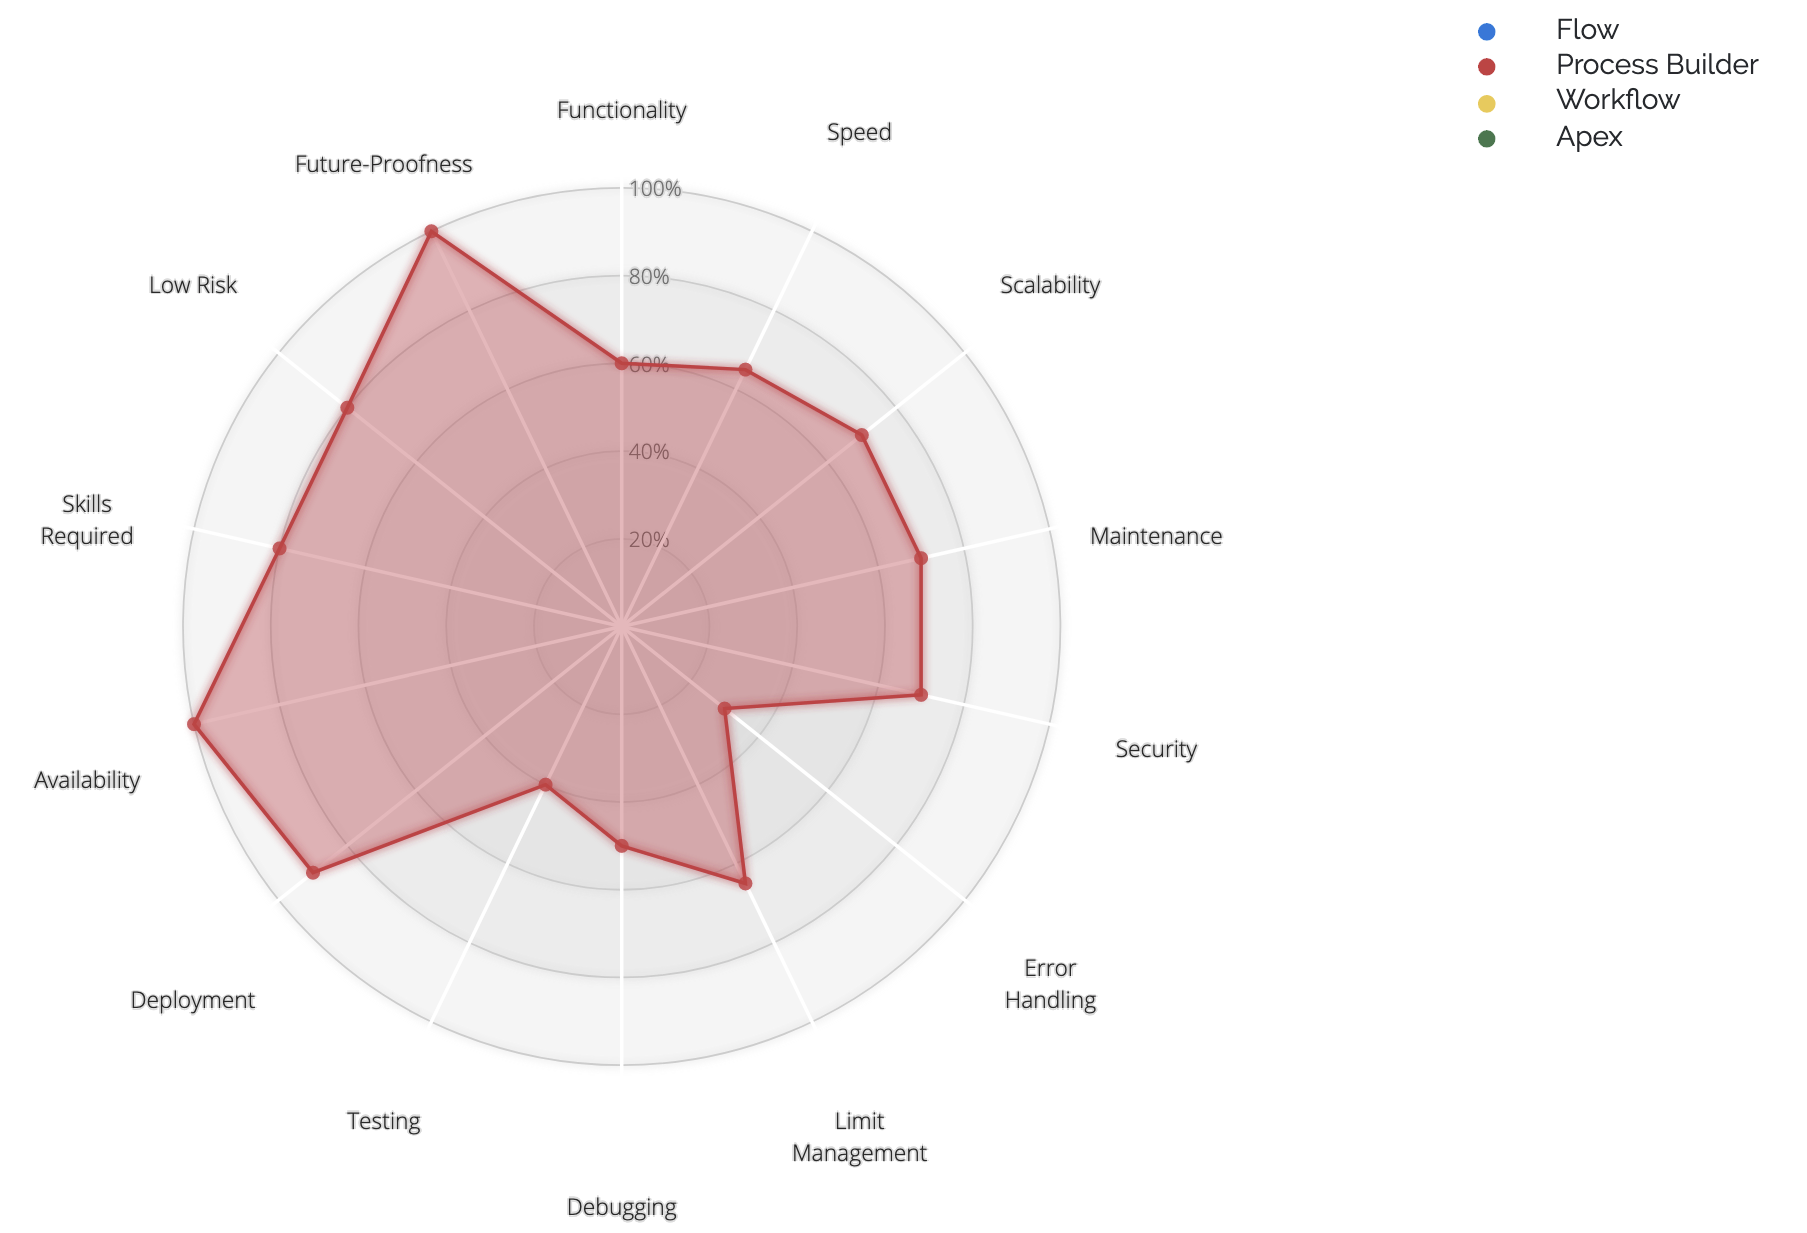
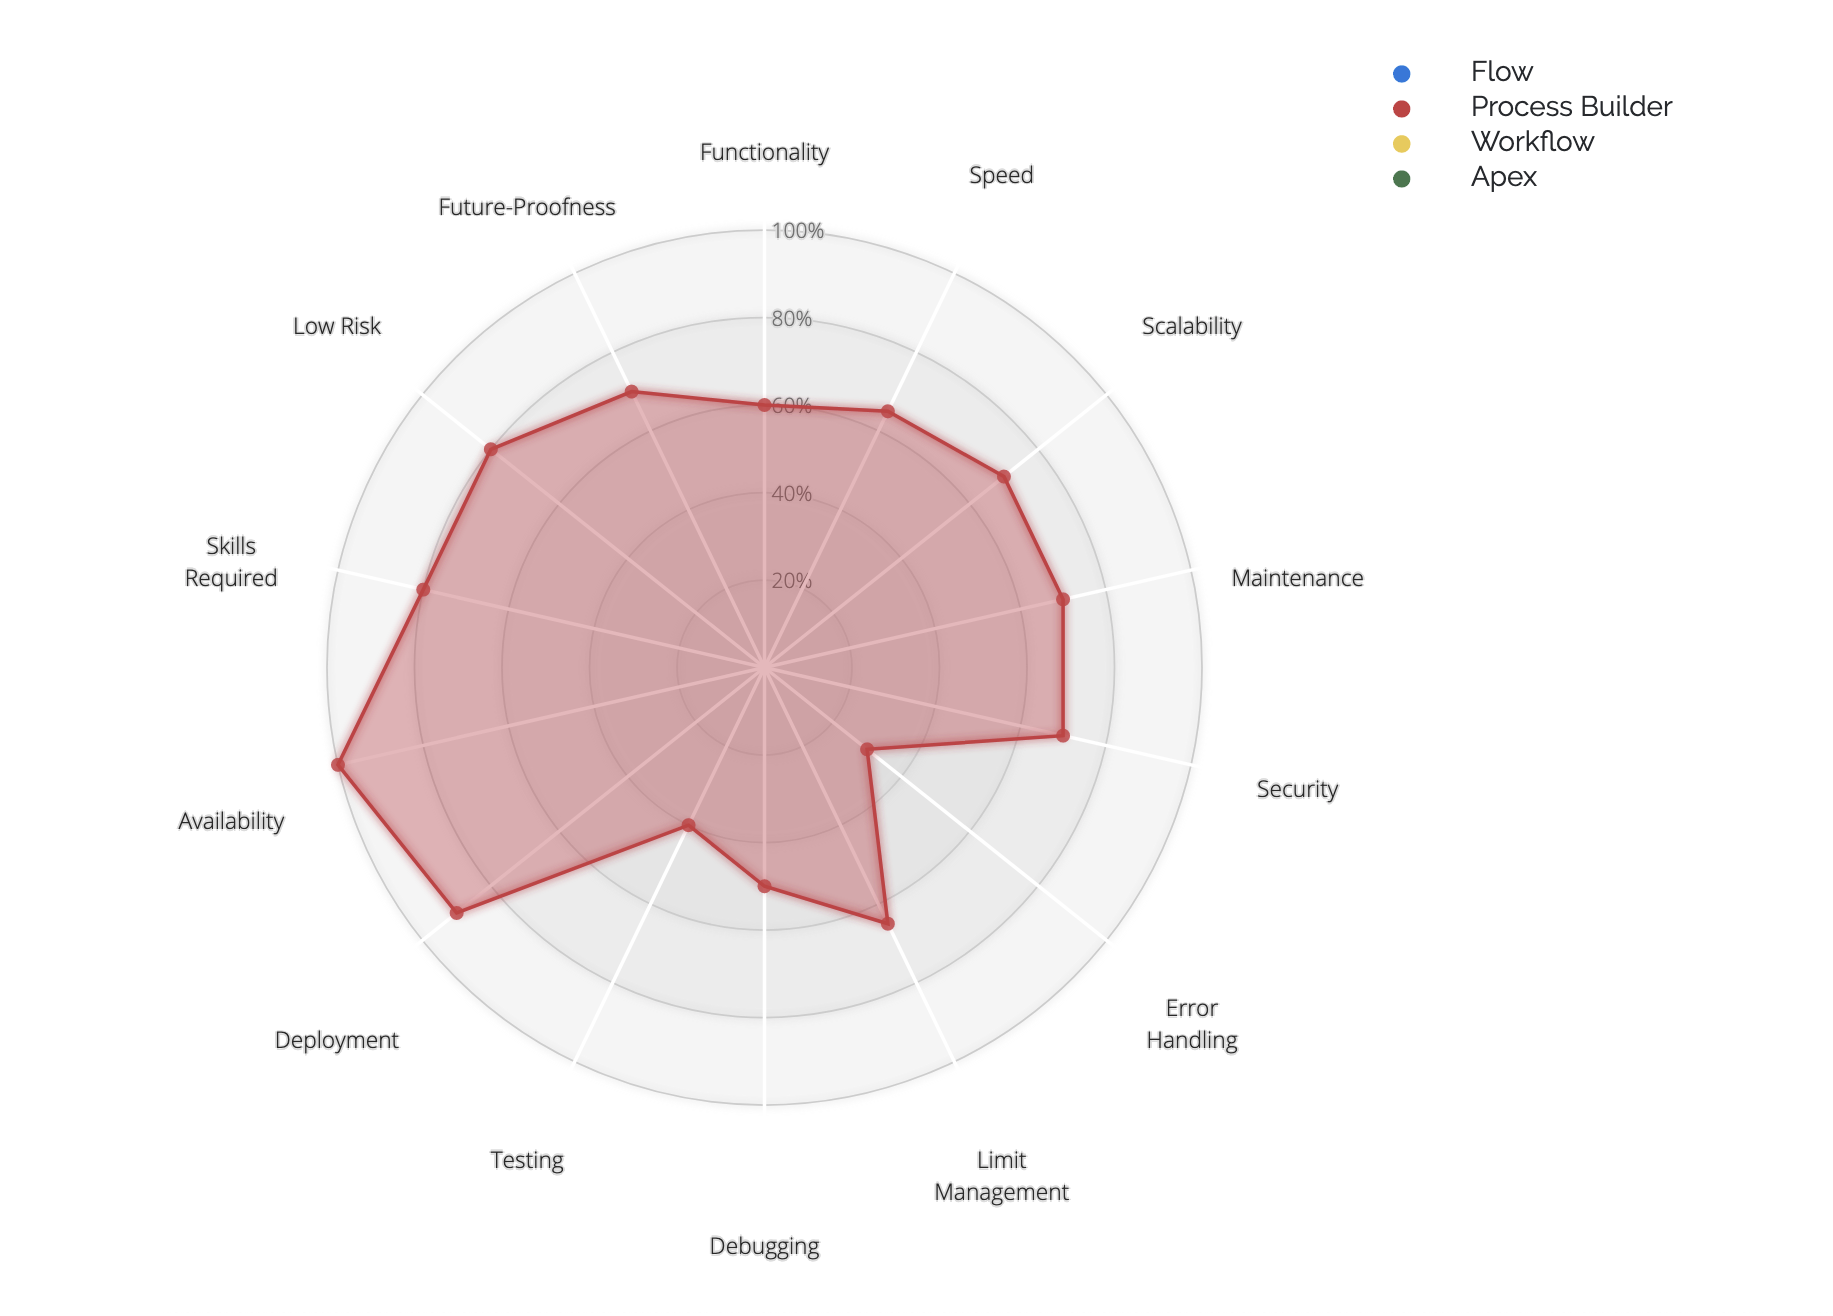
Lowered PB future-proofness

diff --git a/js/handlebars.min.js b/js/handlebars.min.js
@@ -1,1 +1,1 @@
-function drawRadarChart(){var e={top:100,right:100,bottom:100,left:100},a=Math.min(700,window.innerWidth-10)-e.left-e.right,t=Math.min(a,window.innerHeight-e.top-e.bottom-20),i=d3.scale.ordinal().range(["#EDC951","#CC333F","#0C7BDC","#3C784C"]);RadarChart(".radarChart",[[{axis:"Functionality",value:.2},{axis:"Speed",value:1},{axis:"Scalability",value:.45},{axis:"Maintenance",value:.6},{axis:"Security",value:.7},{axis:"Error Handling",value:1},{axis:"Limit Management",value:.9},{axis:"Debugging",value:.7},{axis:"Testing",value:.2},{axis:"Deployment",value:1},{axis:"Availability",value:.8},{axis:"Skills Required",value:1},{axis:"Low Risk",value:1},{axis:"Future-Proofness",value:.2}],[{axis:"Functionality",value:.6},{axis:"Speed",value:.65},{axis:"Scalability",value:.7},{axis:"Maintenance",value:.7},{axis:"Security",value:.7},{axis:"Error Handling",value:.3},{axis:"Limit Management",value:.65},{axis:"Debugging",value:.5},{axis:"Testing",value:.4},{axis:"Deployment",value:.9},{axis:"Availability",value:1},{axis:"Skills Required",value:.8},{axis:"Low Risk",value:.8},{axis:"Future-Proofness",value:1}],[{axis:"Functionality",value:.8},{axis:"Speed",value:.85},{axis:"Scalability",value:.85},{axis:"Maintenance",value:.6},{axis:"Security",value:.9},{axis:"Error Handling",value:.5},{axis:"Limit Management",value:.65},{axis:"Debugging",value:.8},{axis:"Testing",value:.5},{axis:"Deployment",value:.9},{axis:"Availability",value:1},{axis:"Skills Required",value:.6},{axis:"Low Risk",value:.6},{axis:"Future-Proofness",value:1}],[{axis:"Functionality",value:1},{axis:"Speed",value:1},{axis:"Scalability",value:1},{axis:"Maintenance",value:.3},{axis:"Security",value:1},{axis:"Error Handling",value:1},{axis:"Limit Management",value:1},{axis:"Debugging",value:1},{axis:"Testing",value:1},{axis:"Deployment",value:.4},{axis:"Availability",value:.8},{axis:"Skills Required",value:.2},{axis:"Low Risk",value:.2},{axis:"Future-Proofness",value:1}]],{w:a,h:t,margin:e,maxValue:1,levels:5,roundStrokes:!1,color:i})}$(document).ready((function(){Handlebars.registerHelper("ifEquals",(function(e,a,t){return e==a?t.fn(this):t.inverse(this)})),Handlebars.registerHelper("getBoxAttributes",(function(e){let a={};switch(e){case"warning":a={label:"Warning",class:"error",classTextbox:"textbox-left-warning",additionalClass:"",icon:"warning",style:"color: #B52E3E;"};break;case"howto":a={label:"How To",class:"highlight",classTextbox:"textbox-left-howto",additionalClass:"ui-state-highlight-howto",icon:"help",style:"color: rgb(201, 163, 25)"};break;case"tip":a={label:"Tip",class:"highlight",classTextbox:"textbox-left-tip",additionalClass:"ui-state-highlight-tip",icon:"highlight",style:"color:rgb(100, 143, 99);"};break;case"workaround":a={label:"Workaround",class:"highlight",classTextbox:"textbox-left-tip",additionalClass:"ui-state-highlight-tip",icon:"highlight",style:"color:rgb(100, 143, 99);"};break;case"info":default:a={label:"Note",class:"highlight",classTextbox:"textbox-left-info",additionalClass:"",icon:"info",style:""}}return a}));var e=$("#textboxJs").html();Handlebars.registerPartial({partialTextbox:e});var a=$("#menuJs").html(),t=Handlebars.compile(a),i=[{menuKey:"General",menuName:"General"},{menuKey:"Best-Practices",menuName:"Best Practices"},{menuKey:"Use-Cases",menuName:"Use Cases"},{menuKey:"Functionality",menuName:"Functionality"},{menuKey:"Maintenance",menuName:"Maintenance"},{menuKey:"Security",menuName:"Security"},{menuKey:"Debugging",menuName:"Debugging"},{menuKey:"Testing",menuName:"Testing"},{menuKey:"Deployment",menuName:"Deployment"},{menuKey:"Scalability",menuName:"Scalability"},{menuKey:"Availability",menuName:"Availability"},{menuKey:"Skills-Audience",menuName:"Skills &amp; Audience"},{menuKey:"Future-Proofness",menuName:"Future-Proofness"},{menuKey:"Limits",menuName:"Limits"}];$("#menu").html(t({MenuItems:i}));a=$("#tabsJs").html(),t=Handlebars.compile(a);let s={Flow:"Flow",ProcessBuilder:"Process Builder",Workflow:"Workflow",Apex:"Apex"};i={General:{content:{Flows:{link:"https://help.salesforce.com/articleView?id=rss_flow_component.htm&type=5",image:"https://res.cloudinary.com/hy4kyit2a/f_auto,fl_lossy,q_70/learn/modules/flow-builder/f1d99c79f186cea8adac115627a4729b_badge.png",title:"Flows",text:"automate business processes to collect, update, edit, create, or delete Salesforce records as well as interact with external systems. Flows can either run in the background(<em> autolaunched flows</em>) or provide a user interface(<em> screen flows</em >). Flows offer great flexibility and are managed in the declarative and interactive Flow Builder UI. Flows are powered by Lightning Flow."},"Process Builder":{link:"https://help.salesforce.com/articleView?id=rss_flow_component.htm&type=5",image:"https://res.cloudinary.com/hy4kyit2a/f_auto,fl_lossy,q_70/learn/modules/business_process_automation/eee3b8f9f85dde3f6681645ded4aa215_badge.png",title:"Process Builder",text:"automates business processes to collect, update, edit or create delete Salesforce records as well as interact with external systems. Processes always run in the background. Processes offer moderate flexibility and are managed in the declarative and interactive Process Builder UI. Process Builder is powered by Lightning Flow."},Workflows:{link:"https://help.salesforce.com/articleView?id=customize_wf.htm&type=5",image:"https://res.cloudinary.com/hy4kyit2a/f_auto,fl_lossy,q_70/learn/modules/flow-basics/c2d1e1b78bb73f734b6f668e6f9428de_badge.png",title:"Workflows",text:"automate business processes to update Salesforce records as well as interact with external systems in a limited manner. Workflows always run in the background. Workflows offer limited flexibility and are managed in a declarative wizard-like interface."},Apex:{link:"https://developer.salesforce.com/docs/atlas.en-us.apexcode.meta/apexcode/apex_intro_what_is_apex.htm",image:"https://res.cloudinary.com/hy4kyit2a/f_auto,fl_lossy,q_70/learn/modules/apex_database/fab27840d343cc13934e9cf1f4a41dbc_badge.png",title:"Apex",text:"automates any imaginable business processes within Salesforce and can interact with external systems in various ways. Apex runs in the background and can offer user interfaces via Lightning (Web) Components or Visualforce Pages. Apex offers unlimited flexibility due to its programmatic manner and is managed within the Developer Console or any IDE."}},subtabs:{}},"Best-Practices":{content:"",subtabs:s},"Use-Cases":{content:"",subtabs:s},Functionality:{content:"",subtabs:{Actions:"Actions",Triggers:"Triggers",RecordAccess:"Record Access",FlowControl:"Flow Control",Distribution:"Distribution"},subsubtabs:s},Maintenance:{content:"",subtabs:s},Security:{content:"",subtabs:s},Debugging:{content:"",subtabs:s},Testing:{content:"",subtabs:s},Deployment:{content:"",subtabs:s},Scalability:{content:"",subtabs:s},Availability:{content:"",subtabs:s},"Skills-Audience":{content:"",subtabs:s},"Future-Proofness":{content:"",subtabs:s},Limits:{content:"",subtabs:s}};$("#tabContent").html(t({tabs:i})),drawRadarChart()}));
+function drawRadarChart(){var e={top:100,right:100,bottom:100,left:100},t=Math.min(700,window.innerWidth-10)-e.left-e.right,a=Math.min(t,window.innerHeight-e.top-e.bottom-20),s=d3.scale.ordinal().range(["#CC333F","#0C7BDC","#3C784C"]);RadarChart(".radarChart",[[{axis:"Functionality",value:.6},{axis:"Speed",value:.65},{axis:"Scalability",value:.7},{axis:"Maintenance",value:.7},{axis:"Security",value:.7},{axis:"Error Handling",value:.3},{axis:"Limit Management",value:.65},{axis:"Debugging",value:.5},{axis:"Testing",value:.4},{axis:"Deployment",value:.9},{axis:"Availability",value:1},{axis:"Skills Required",value:.8},{axis:"Low Risk",value:.8},{axis:"Future-Proofness",value:.7}]],{w:t,h:a,margin:e,maxValue:1,levels:5,roundStrokes:!1,color:s})}$(document).ready((function(){Handlebars.registerHelper("ifEquals",(function(e,t,a){return e==t?a.fn(this):a.inverse(this)})),Handlebars.registerHelper("getBoxAttributes",(function(e){let t={};switch(e){case"warning":t={label:"Warning",class:"error",classTextbox:"textbox-left-warning",additionalClass:"",icon:"warning",style:"color: #B52E3E;"};break;case"howto":t={label:"How To",class:"highlight",classTextbox:"textbox-left-howto",additionalClass:"ui-state-highlight-howto",icon:"help",style:"color: rgb(201, 163, 25)"};break;case"tip":t={label:"Tip",class:"highlight",classTextbox:"textbox-left-tip",additionalClass:"ui-state-highlight-tip",icon:"highlight",style:"color:rgb(100, 143, 99);"};break;case"workaround":t={label:"Workaround",class:"highlight",classTextbox:"textbox-left-tip",additionalClass:"ui-state-highlight-tip",icon:"highlight",style:"color:rgb(100, 143, 99);"};break;case"info":default:t={label:"Note",class:"highlight",classTextbox:"textbox-left-info",additionalClass:"",icon:"info",style:""}}return t}));var e=$("#textboxJs").html();Handlebars.registerPartial({partialTextbox:e});var t=$("#menuJs").html(),a=Handlebars.compile(t),s=[{menuKey:"General",menuName:"General"},{menuKey:"Best-Practices",menuName:"Best Practices"},{menuKey:"Use-Cases",menuName:"Use Cases"},{menuKey:"Functionality",menuName:"Functionality"},{menuKey:"Maintenance",menuName:"Maintenance"},{menuKey:"Security",menuName:"Security"},{menuKey:"Debugging",menuName:"Debugging"},{menuKey:"Testing",menuName:"Testing"},{menuKey:"Deployment",menuName:"Deployment"},{menuKey:"Scalability",menuName:"Scalability"},{menuKey:"Availability",menuName:"Availability"},{menuKey:"Skills-Audience",menuName:"Skills &amp; Audience"},{menuKey:"Future-Proofness",menuName:"Future-Proofness"},{menuKey:"Limits",menuName:"Limits"}];$("#menu").html(a({MenuItems:s}));t=$("#tabsJs").html(),a=Handlebars.compile(t);let i={Flow:"Flow",ProcessBuilder:"Process Builder",Workflow:"Workflow",Apex:"Apex"};s={General:{content:{Flows:{link:"https://help.salesforce.com/articleView?id=rss_flow_component.htm&type=5",image:"https://res.cloudinary.com/hy4kyit2a/f_auto,fl_lossy,q_70/learn/modules/flow-builder/f1d99c79f186cea8adac115627a4729b_badge.png",title:"Flows",text:"automate business processes to collect, update, edit, create, or delete Salesforce records as well as interact with external systems. Flows can either run in the background(<em> autolaunched flows</em>) or provide a user interface(<em> screen flows</em >). Flows offer great flexibility and are managed in the declarative and interactive Flow Builder UI. Flows are powered by Lightning Flow."},"Process Builder":{link:"https://help.salesforce.com/articleView?id=rss_flow_component.htm&type=5",image:"https://res.cloudinary.com/hy4kyit2a/f_auto,fl_lossy,q_70/learn/modules/business_process_automation/eee3b8f9f85dde3f6681645ded4aa215_badge.png",title:"Process Builder",text:"automates business processes to collect, update, edit or create delete Salesforce records as well as interact with external systems. Processes always run in the background. Processes offer moderate flexibility and are managed in the declarative and interactive Process Builder UI. Process Builder is powered by Lightning Flow."},Workflows:{link:"https://help.salesforce.com/articleView?id=customize_wf.htm&type=5",image:"https://res.cloudinary.com/hy4kyit2a/f_auto,fl_lossy,q_70/learn/modules/flow-basics/c2d1e1b78bb73f734b6f668e6f9428de_badge.png",title:"Workflows",text:"automate business processes to update Salesforce records as well as interact with external systems in a limited manner. Workflows always run in the background. Workflows offer limited flexibility and are managed in a declarative wizard-like interface."},Apex:{link:"https://developer.salesforce.com/docs/atlas.en-us.apexcode.meta/apexcode/apex_intro_what_is_apex.htm",image:"https://res.cloudinary.com/hy4kyit2a/f_auto,fl_lossy,q_70/learn/modules/apex_database/fab27840d343cc13934e9cf1f4a41dbc_badge.png",title:"Apex",text:"automates any imaginable business processes within Salesforce and can interact with external systems in various ways. Apex runs in the background and can offer user interfaces via Lightning (Web) Components or Visualforce Pages. Apex offers unlimited flexibility due to its programmatic manner and is managed within the Developer Console or any IDE."}},subtabs:{}},"Best-Practices":{content:"",subtabs:i},"Use-Cases":{content:"",subtabs:i},Functionality:{content:"",subtabs:{Actions:"Actions",Triggers:"Triggers",RecordAccess:"Record Access",FlowControl:"Flow Control",Distribution:"Distribution"},subsubtabs:i},Maintenance:{content:"",subtabs:i},Security:{content:"",subtabs:i},Debugging:{content:"",subtabs:i},Testing:{content:"",subtabs:i},Deployment:{content:"",subtabs:i},Scalability:{content:"",subtabs:i},Availability:{content:"",subtabs:i},"Skills-Audience":{content:"",subtabs:i},"Future-Proofness":{content:"",subtabs:i},Limits:{content:"",subtabs:i}};$("#tabContent").html(a({tabs:s})),drawRadarChart()}));

diff --git a/js/handlebars.js b/js/handlebars.js
@@ -10,65 +10,6 @@ function drawRadarChart() {
 		height = Math.min(width, window.innerHeight - margin.top - margin.bottom - 20);
 
 	var data = [
-		// Note: 0 does not exist, so lowest value is 0.1
-		[ //Workflow Rule
-			{
-				axis: "Functionality",
-				value: 0.2
-			}, // Limited record management, few standard actions, few standard metadata capabilities, no flow control
-			{
-				axis: "Speed",
-				value: 1.0
-			}, // Most mature solution, high speed due to limited functionality and flexibility
-			{
-				axis: "Scalability",
-				value: 0.45
-			}, // Can only make one decision, few standard actions, but good with data/performance
-			{
-				axis: "Maintenance",
-				value: 0.6
-			}, // No versioning, non-ideal wizard, naming conventions - but simple
-			{
-				axis: "Security",
-				value: 0.7
-			}, // Platform handles it, but runs in system context and no user access management
-			{
-				axis: "Error Handling",
-				value: 1.0
-			}, // Nothing to handle - will not fail for the user as wrong configuration is validated during configuration
-			{
-				axis: "Limit Management",
-				value: 0.9
-			}, // Barely any limits
-			{
-				axis: "Debugging",
-				value: 0.7
-			}, // Good, unlikely to run into complex debugging situations, but no dedicated interactive debugging
-			{
-				axis: "Testing",
-				value: 0.2
-			}, // No dedicated testing, no unit tests
-			{
-				axis: "Deployment",
-				value: 1.0
-			}, // Simple deployment, editable in any org
-			{
-				axis: "Availability",
-				value: 0.8
-			}, // Not all editions, Classic/Lightning
-			{
-				axis: "Skills Required",
-				value: 1.0
-			}, // Requires you to be able to read
-			{
-				axis: "Low Risk",
-				value: 1.0
-			}, // Few save actions, no deletion, no complexity
-			{
-				axis: "Future-Proofness",
-				value: 0.2
-			} // Not EoL but also no longer developed
-		],
 		[ //Process Builder
 			{
 				axis: "Functionality",
@@ -124,128 +65,12 @@ function drawRadarChart() {
 			}, // If something breaks, easily fixable, risk of creating too many processes with other dependencies, no deletion
 			{
 				axis: "Future-Proofness",
-				value: 1.0
-			} // Active development
-		],
-		[ //Flow
-			{
-				axis: "Functionality",
-				value: 0.8
-			}, // All record capabilities, Advanced logic, , good standard metadata capabilities, good flow control, but still limited capabilities
-			{
-				axis: "Speed",
-				value: 0.85
-			}, // Still not fully optimized, especially in bulk scenarios, but has gotten much better, especially with before-* updates
-			{
-				axis: "Scalability",
-				value: 0.85
-			}, // Call flow, apex; very manay features and external addons (solutions); risky for lDV, less limited logic
-			{
-				axis: "Maintenance",
-				value: 0.6
-			}, // Versioning, UI, too much? flexibility - can get crazy,
-			{
-				axis: "Security",
-				value: 0.9
-			}, // Platform handles it, allows context choice, user access management, conditional components
-			{
-				axis: "Error Handling",
-				value: 0.5
-			}, // Situational error handling (fault paths), crazy error messages
-			{
-				axis: "Limit Management",
-				value: 0.65
-			}, // Apex-like governor limits, not much flexibility to cope with them
-			{
-				axis: "Debugging",
-				value: 0.8
-			}, // More complex functionality, but also better (interactive) debugging
-			{
-				axis: "Testing",
-				value: 0.5
-			}, // No dedicated testing framework, some Apex unit-test requirements, interactive debugger
-			{
-				axis: "Deployment",
-				value: 0.9
-			}, // Simple deployment, editable in any org, cannot be removed from Managed Packages
-			{
-				axis: "Availability",
-				value: 1.0
-			},
-			{
-				axis: "Skills Required",
-				value: 0.6
-			}, // Can get complex, programmatic mind
-			{
-				axis: "Low Risk",
-				value: 0.6
-			}, // Can get messy
-			{
-				axis: "Future-Proofness",
-				value: 1.0
-			} // Active development
-		],
-		[ //Apex
-			{
-				axis: "Functionality",
-				value: 1.0
-			}, // Unlimited potential
-			{
-				axis: "Speed",
-				value: 1.0
-			}, // Extremely fast (if built correctly)
-			{
-				axis: "Scalability",
-				value: 1.0
-			}, // Unlimited scalability
-			{
-				axis: "Maintenance",
-				value: 0.3
-			}, // Versioning requires 3rd-party solution, no edit on prod, higher effort
-			{
-				axis: "Security",
-				value: 1.0
-			}, // Choice of context, choice whether to enforce FLS/OLS/sharing, can be limited to users, custom permissions
-			{
-				axis: "Error Handling",
-				value: 1.0
-			}, // Custom exceptions and error handling, hide exceptions
-			{
-				axis: "Limit Management",
-				value: 1.0
-			}, // Limits, but also lots of ways to work around them
-			{
-				axis: "Debugging",
-				value: 1.0
-			}, // Unlimited debugging capabilities
-			{
-				axis: "Testing",
-				value: 1.0
-			}, // Massive, proven test class suites, frameworks and log handlers
-			{
-				axis: "Deployment",
-				value: 0.4
-			}, // Mandatory unit tests, slow running unit tests, easier to miss dependencies
-			{
-				axis: "Availability",
-				value: 0.8
-			}, // Not all editions, Classic/Lightning
-			{
-				axis: "Skills Required",
-				value: 0.2
-			}, // Need to one or more languages, requires additional development skills
-			{
-				axis: "Low Risk",
-				value: 0.2
-			}, // If you don't know what you do, you can kill an org
-			{
-				axis: "Future-Proofness",
-				value: 1.0
-			} // Active development, will not go away
+				value: 0.70
+			} // Active development, but more maintenance and less feature-oriented
 		]
 	];
 
-	var color = d3.scale.ordinal().range(["#EDC951", "#CC333F", "#0C7BDC", "#3C784C"]);
+	var color = d3.scale.ordinal().range(["#CC333F", "#0C7BDC", "#3C784C"]);
 	//var color = d3.scale.ordinal().range(["#FFC20A", "#0C7BDC", "#994F00", "#3C784C"]);
 
 	var radarChartOptions = {
